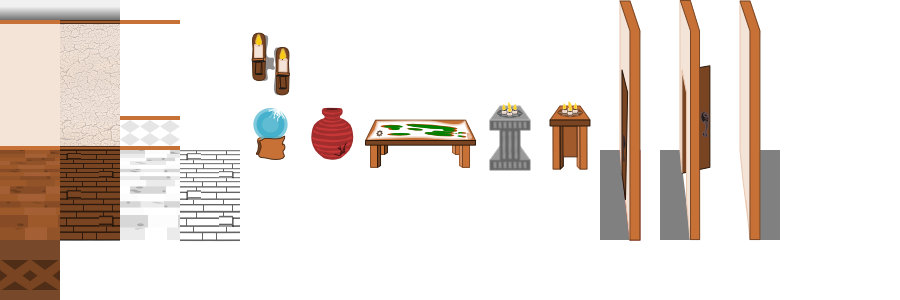
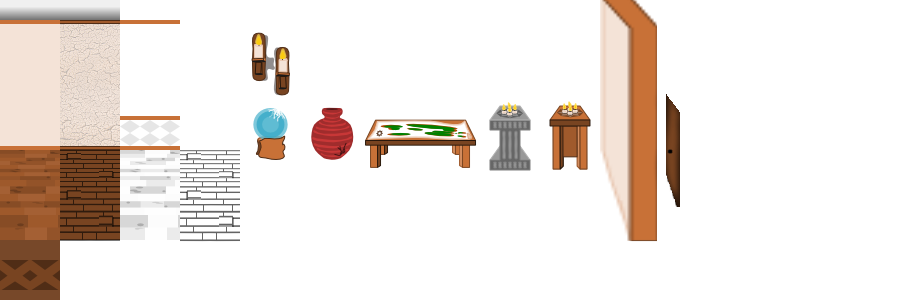
Implement doors in guild hall. Update graphics to facilitate this. Hillary will improve these later.

Changed region(s): [[0.6533, 0.0, 0.8711, 0.81]]

diff --git a/guild.js b/guild.js
@@ -9,6 +9,9 @@ function openWorldMap(actor) {
 function openCrafting(actor) {
     setContext('item');
 }
+function useDoor(actor) {
+    enterGuildArea(actor.character, this.exit);
+}
 
 var areaObjects = {
     'mapTable': {'name': 'World Map', 'source': objectSource(guildImage, [360, 120], [120, 50, 60]), 'action': openWorldMap},
@@ -17,8 +20,8 @@ var areaObjects = {
     'woodenShrine': {'name': 'Shrine of Fortune', 'source': objectSource(guildImage, [540, 100], [60, 70, 40]), 'action': openCrafting},
     'candles': {'source': objectSource(guildImage, [240, 30], [60, 70, 0])},
 
-    'door': {'source': objectSource(guildImage, [600, 0], [60, 240, 180])},
-    'wall': {'source': objectSource(guildImage, [720, 0], [60, 240, 180])},
+    'wall': {'source': objectSource(guildImage, [600, 0], [60, 240, 180])},
+    'door': {'source': objectSource(guildImage, [660, 90], [60, 120, 90]), 'action': useDoor},
 
     'skillShrine': {'name': 'Shrine of Divinity', 'source': objectSource(requireImage('gfx/militaryIcons.png'), [102, 125], [16, 16, 4]), 'action': activateShrine},
     'closedChest': {'name': 'Treasure Chest', 'source': objectSource(requireImage('gfx/treasureChest.png'), [0, 0], [64, 64, 64]), 'action': openChest},
@@ -31,6 +34,7 @@ function initializeGuldArea(guildArea) {
     guildArea.isGuildArea = true;
     guildArea.allies = [];
     guildArea.enemies = [];
+    guildArea.left = 0;
     guildArea.cameraX = 0;
     guildArea.time = 0;
     guildArea.textPopups = [];
@@ -38,8 +42,8 @@ function initializeGuldArea(guildArea) {
     for (var object of guildArea.objects) {
         object.area = guildArea;
     }
-    guildArea.leftWall = fixedObject('wall', [10, 0, 15], {'scale': 2.2, 'xScale': -1});
-    guildArea.rightWall = fixedObject('wall', [guildArea.width - 10, 0, 15], {'scale': 2.2});
+    guildArea.leftWall = ifdefor(guildArea.leftWall, fixedObject('wall', [10, 0, 15], {'scale': 2.2, 'xScale': -1}));
+    guildArea.rightWall = ifdefor(guildArea.rightWall, fixedObject('wall', [guildArea.width - 10, 0, 15], {'scale': 2.2}));
     return guildArea;
 }
 function fixedObject(objectKey, coords, properties) {
@@ -72,6 +76,17 @@ function drawFixedObject(area) {
     else drawImage(mainContext, imageSource.image, imageSource, this);
 }
 var guildAreas = {};
+var guildFoyerFrontDoor = {'areaKey': 'guildFoyer', 'x': 120, 'z': 0};
+guildAreas.guildYard = initializeGuldArea({
+    'key': 'guildYard',
+    'width': 1000,
+    'backgroundPatterns': {'0': 'forest'},
+    'wallDecorations': [],
+    'objects': [
+        fixedObject('door', [995, 0, 0], {'scale': 2, 'exit': guildFoyerFrontDoor})
+    ],
+    'leftWall': null
+});
 guildAreas.guildFoyer = initializeGuldArea({
     'key': 'guildFoyer',
     'width': 1000,
@@ -86,11 +101,13 @@ guildAreas.guildFoyer = initializeGuldArea({
         fixedObject('mapTable', [250, 0, 90]),
         fixedObject('crackedPot', [455, 0, 150]),
         fixedObject('woodenShrine', [500, 0, 150]),
-        fixedObject('crackedOrb', [545, 0, 150])
+        fixedObject('crackedOrb', [545, 0, 150]),
+        fixedObject('door', [5, 0, 0], {'scale': 2, 'xScale': -1, 'exit': {'areaKey': 'guildYard', 'x': 900, 'z': 0}}),
+        fixedObject('door', [995, 0, 0], {'scale': 2, 'exit': {'areaKey': 'guildFrontHall', 'x': 120, 'z': 0}})
     ]
 });
-guildAreas.frontHall = initializeGuldArea({
-    'key': 'frontHall',
+guildAreas.guildFrontHall = initializeGuldArea({
+    'key': 'guildFrontHall',
     'width': 1000,
     'backgroundPatterns': {'0': 'oldGuild'},
     'wallDecorations': [
@@ -100,13 +117,9 @@ guildAreas.frontHall = initializeGuldArea({
         fixedObject('candles', [835, 50, wallZ]),
     ],
     'objects': [
-        fixedObject('mapTable', [250, 0, 90]),
-        fixedObject('crackedPot', [455, 0, 150]),
-        fixedObject('woodenShrine', [500, 0, 150]),
-        fixedObject('crackedOrb', [545, 0, 150])
+        fixedObject('door', [5, 0, 0], {'scale': 2, 'xScale': -1, 'exit': {'areaKey': 'guildFoyer', 'x': 900, 'z': 0}}),
     ]
 });
-var guildFrontDoor = {'areaKey': 'guildFoyer', 'x': 120, 'z': 0};
 function leaveCurrentArea(character) {
     if (!character.area) return;
     var allyIndex = character.area.allies.indexOf(character.adventurer);
@@ -134,7 +147,7 @@ function enterGuildArea(character, door) {
         action.readyAt = 0;
     });
     if (state.selectedCharacter === character) {
-        guildArea.cameraX = hero.x - 300;
+        guildArea.cameraX = Math.max(guildArea.left, Math.min(guildArea.width - 800, hero.x - 400));
         updateAdventureButtons();
         showContext('guild');
     }
@@ -217,8 +230,8 @@ function drawGuildArea(guildArea) {
             mainContext.globalAlpha = 1;
         });
     }
-    guildArea.leftWall.draw(guildArea);
-    guildArea.rightWall.draw(guildArea);
+    if (guildArea.leftWall) guildArea.leftWall.draw(guildArea);
+    if (guildArea.rightWall) guildArea.rightWall.draw(guildArea);
     for (var object of guildArea.wallDecorations) {
         object.draw(guildArea);
     }

diff --git a/main.js b/main.js
@@ -77,7 +77,7 @@ function initializeGame() {
         $('.js-heroApplication').each(function () {
             createNewHeroApplicant($(this), otherKeys.pop());
         });
-        enterGuildArea(state.selectedCharacter, guildFrontDoor);
+        enterGuildArea(state.selectedCharacter, guildFoyerFrontDoor);
     }
     state.visibleLevels['guild'] = true;
     for (var levelKey of map.guild.unlocks) {
@@ -560,7 +560,7 @@ function setContext(context) {
     state.selectedCharacter.context = context;
     // If the player is not already in the guild when we return to the guild context, move them to the foyer.
     if (context === 'guild' && (!state.selectedCharacter.area || !state.selectedCharacter.area.isGuildArea)) {
-        enterGuildArea(state.selectedCharacter, guildFrontDoor);
+        enterGuildArea(state.selectedCharacter, guildFoyerFrontDoor);
     }
     showContext(context);
 }

diff --git a/map.js b/map.js
@@ -562,7 +562,7 @@ $(document).on('keydown', function(event) {
             if (state.selectedCharacter.context === 'map') {
                 if ($('.js-areaMenu').is(':visible')) $('.js-areaMenu').hide();
                 else if (!state.selectedCharacter.area) {
-                    enterGuildArea(state.selectedCharacter, guildFrontDoor);
+                    enterGuildArea(state.selectedCharacter, guildFoyerFrontDoor);
                 } else {
                     setContext('guild');
                 }

diff --git a/index.php b/index.php
@@ -1,5 +1,5 @@
 <?php
-    $version = '0.5';
+    $version = '0.6';
     function addScripts($scriptNames) {
         foreach ($scriptNames as $scriptName) {
             $version = hash_file('md5', $scriptName);
